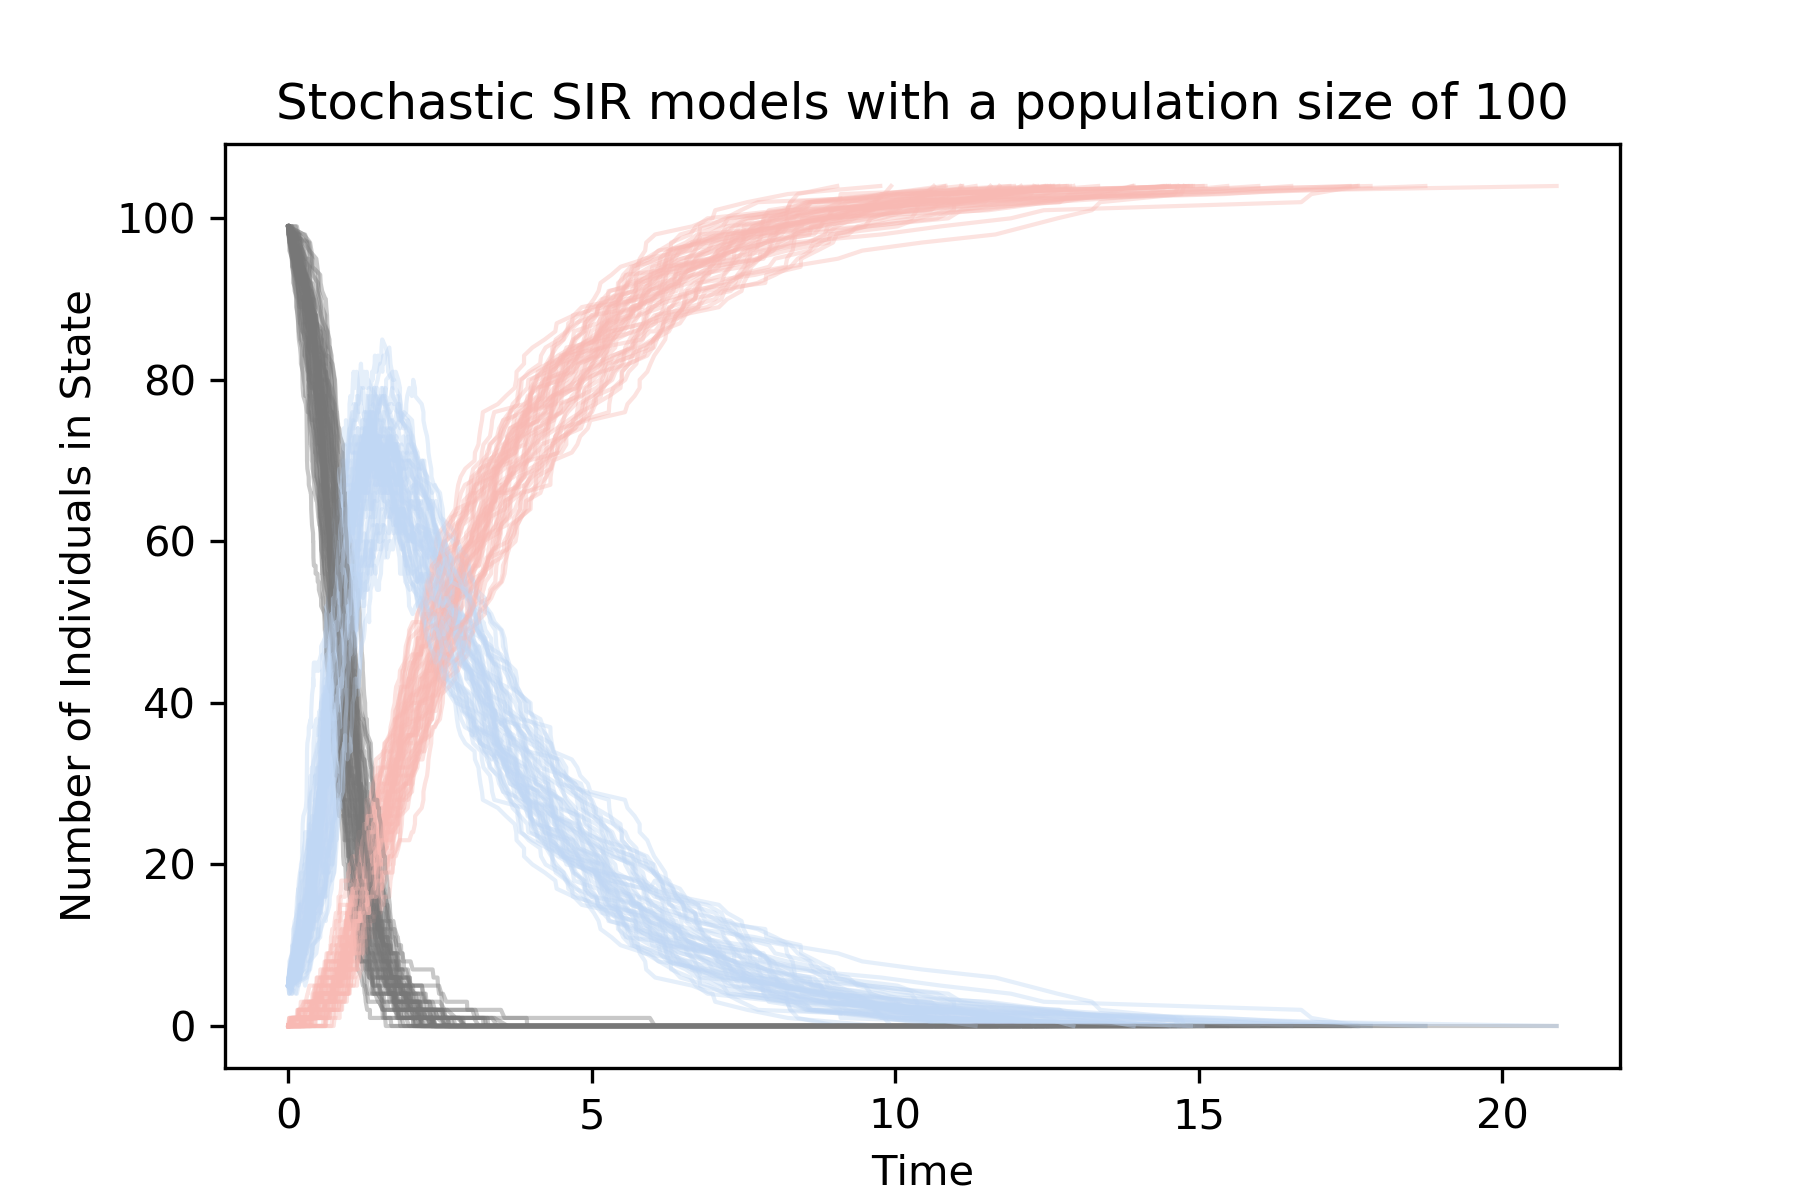
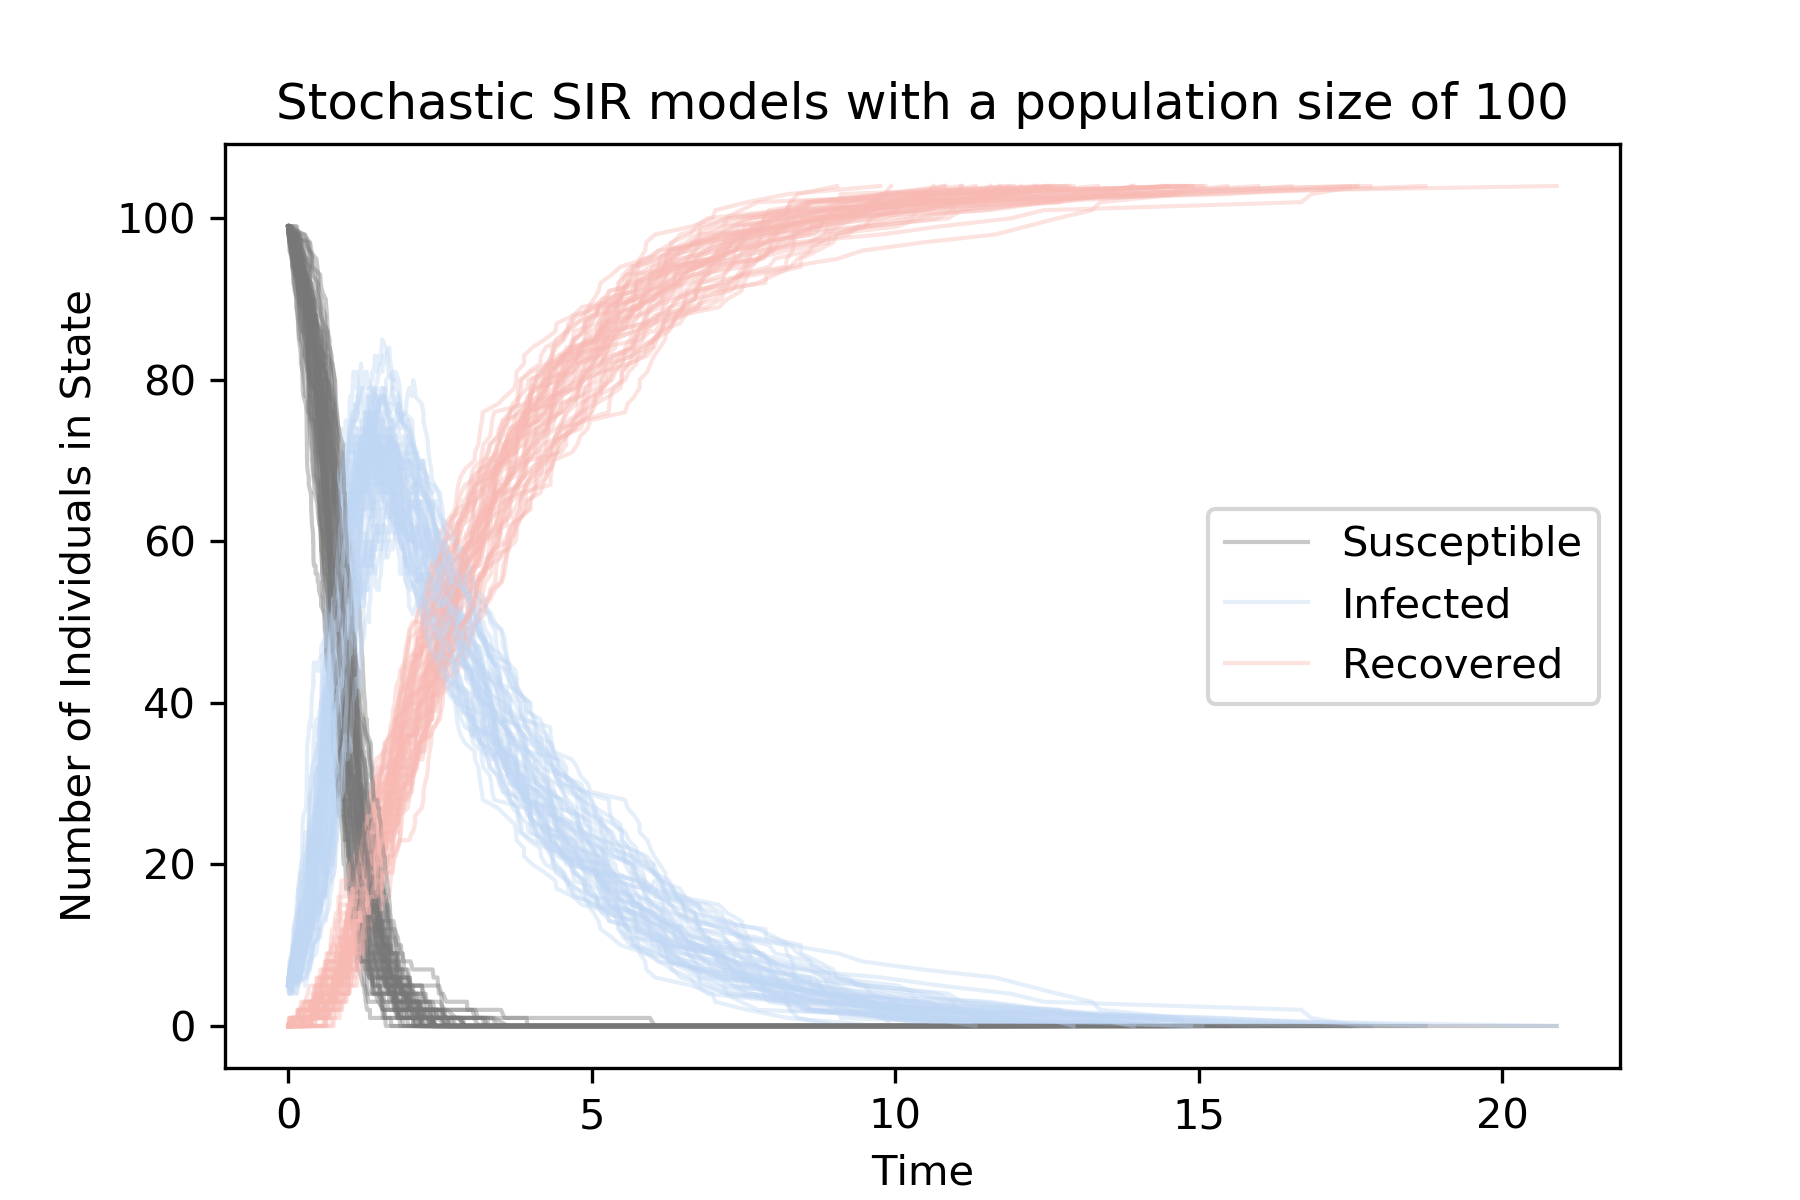
all done

Changed region(s): [[0.6844, 0.4008, 0.9022, 0.4625], [0.7467, 0.4933, 0.8711, 0.5858], [0.6844, 0.4933, 0.7156, 0.555]]

diff --git a/sirMain copy.py b/sirMain copy.py
@@ -34,10 +34,15 @@ def main():
     for i in range(50):
         t, S, I, R = gillespieDirect2Processes(t_max, S_total, I_total,
             R_total, alpha, beta, N)
-        plt.plot(t, S, color="#777777",lw = 1,alpha=0.4, figure=fig)
-        plt.plot(t, I, color="#c0d7f4",lw = 1,alpha=0.4, figure=fig)
-        plt.plot(t, R, color="#f8b9b3",lw = 1,alpha=0.4, figure=fig)
-
+        if(i==1):
+            plt.plot(t, S, color="#777777",label="Susceptible",lw = 1,alpha=0.4, figure=fig)
+            plt.plot(t, I, color="#c0d7f4",label="Infected",lw = 1,alpha=0.4, figure=fig)
+            plt.plot(t, R, color="#f8b9b3",label="Recovered",lw = 1,alpha=0.4, figure=fig)
+        else:
+            plt.plot(t, S, color="#777777",lw = 1,alpha=0.4, figure=fig)
+            plt.plot(t, I, color="#c0d7f4",lw = 1,alpha=0.4, figure=fig)
+            plt.plot(t, R, color="#f8b9b3",lw = 1,alpha=0.4, figure=fig)
+    plt.legend()
     plt.xlabel("Time")
     plt.ylabel("Number of Individuals in State")
     plt.title(f"Stochastic SIR models with a population size of {N}")
